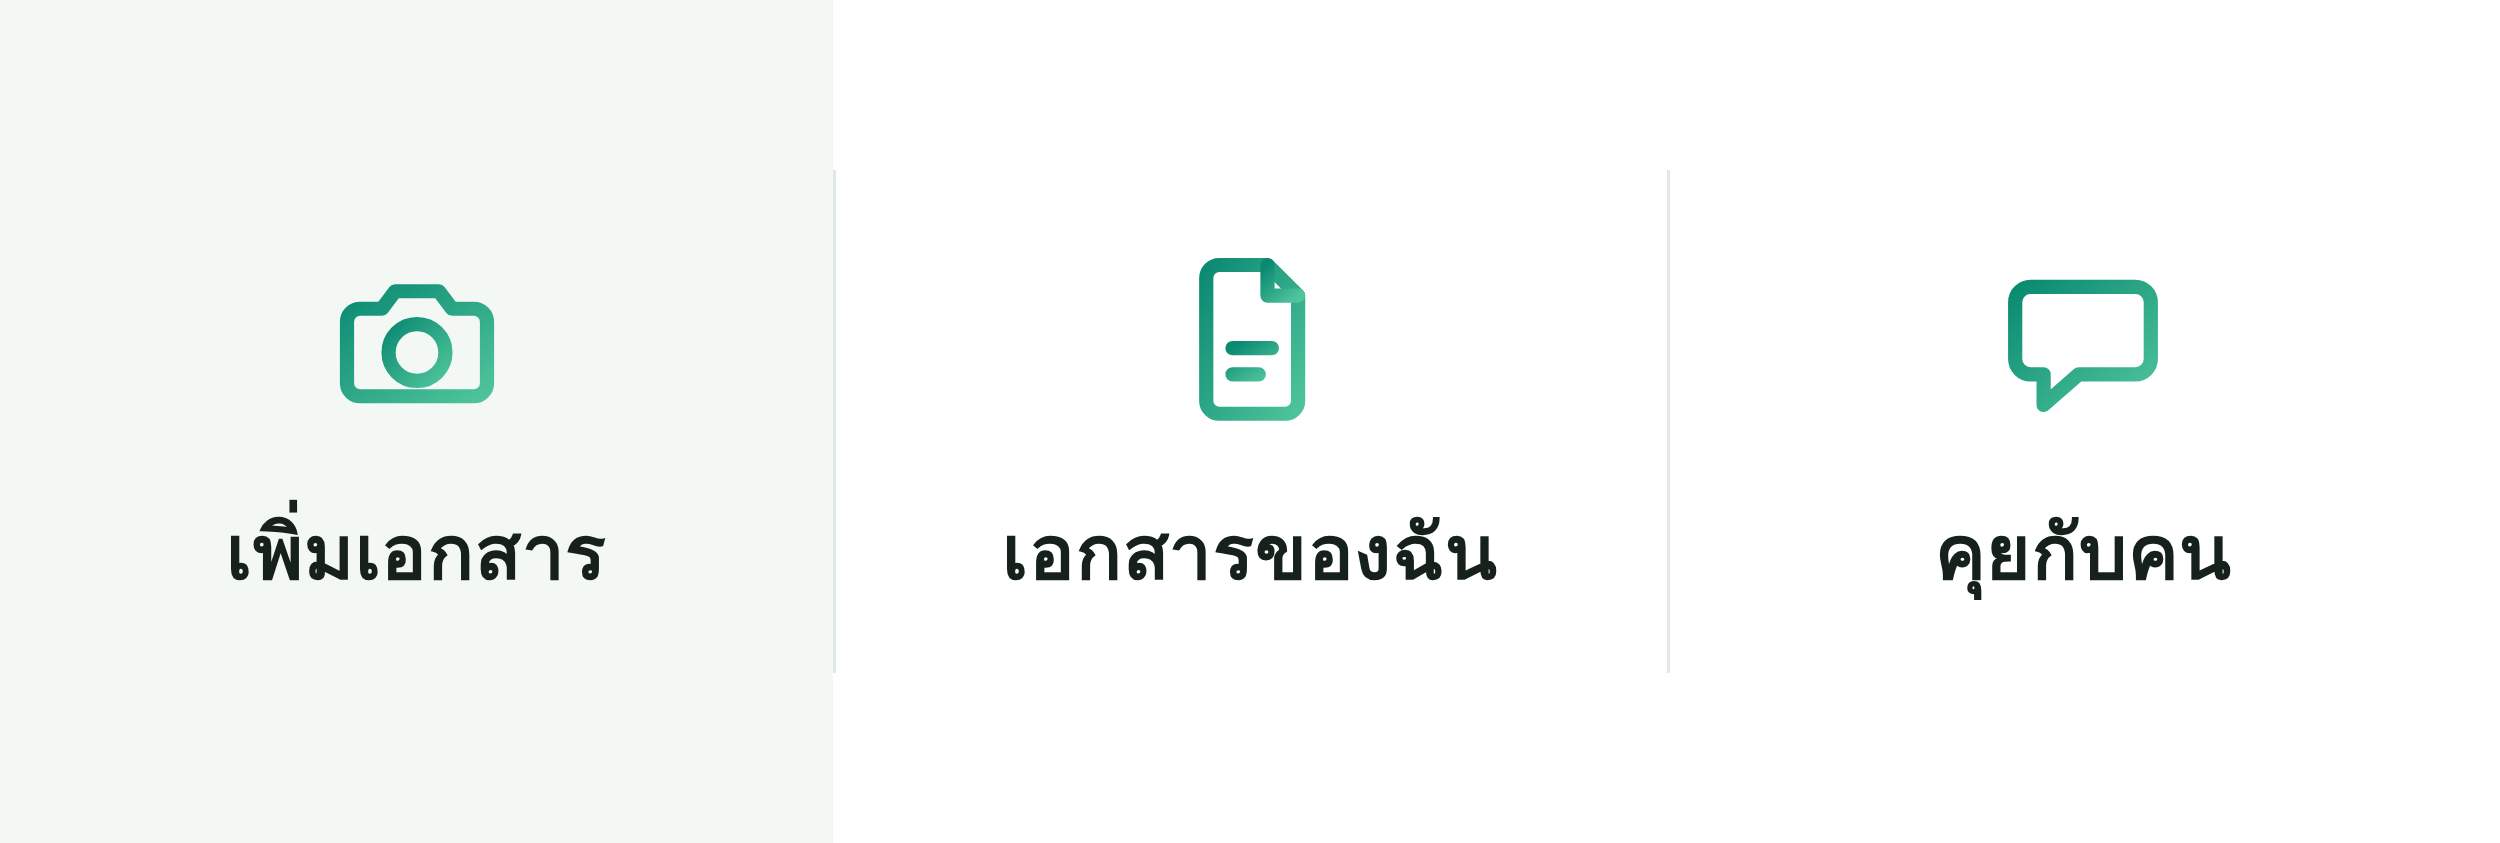
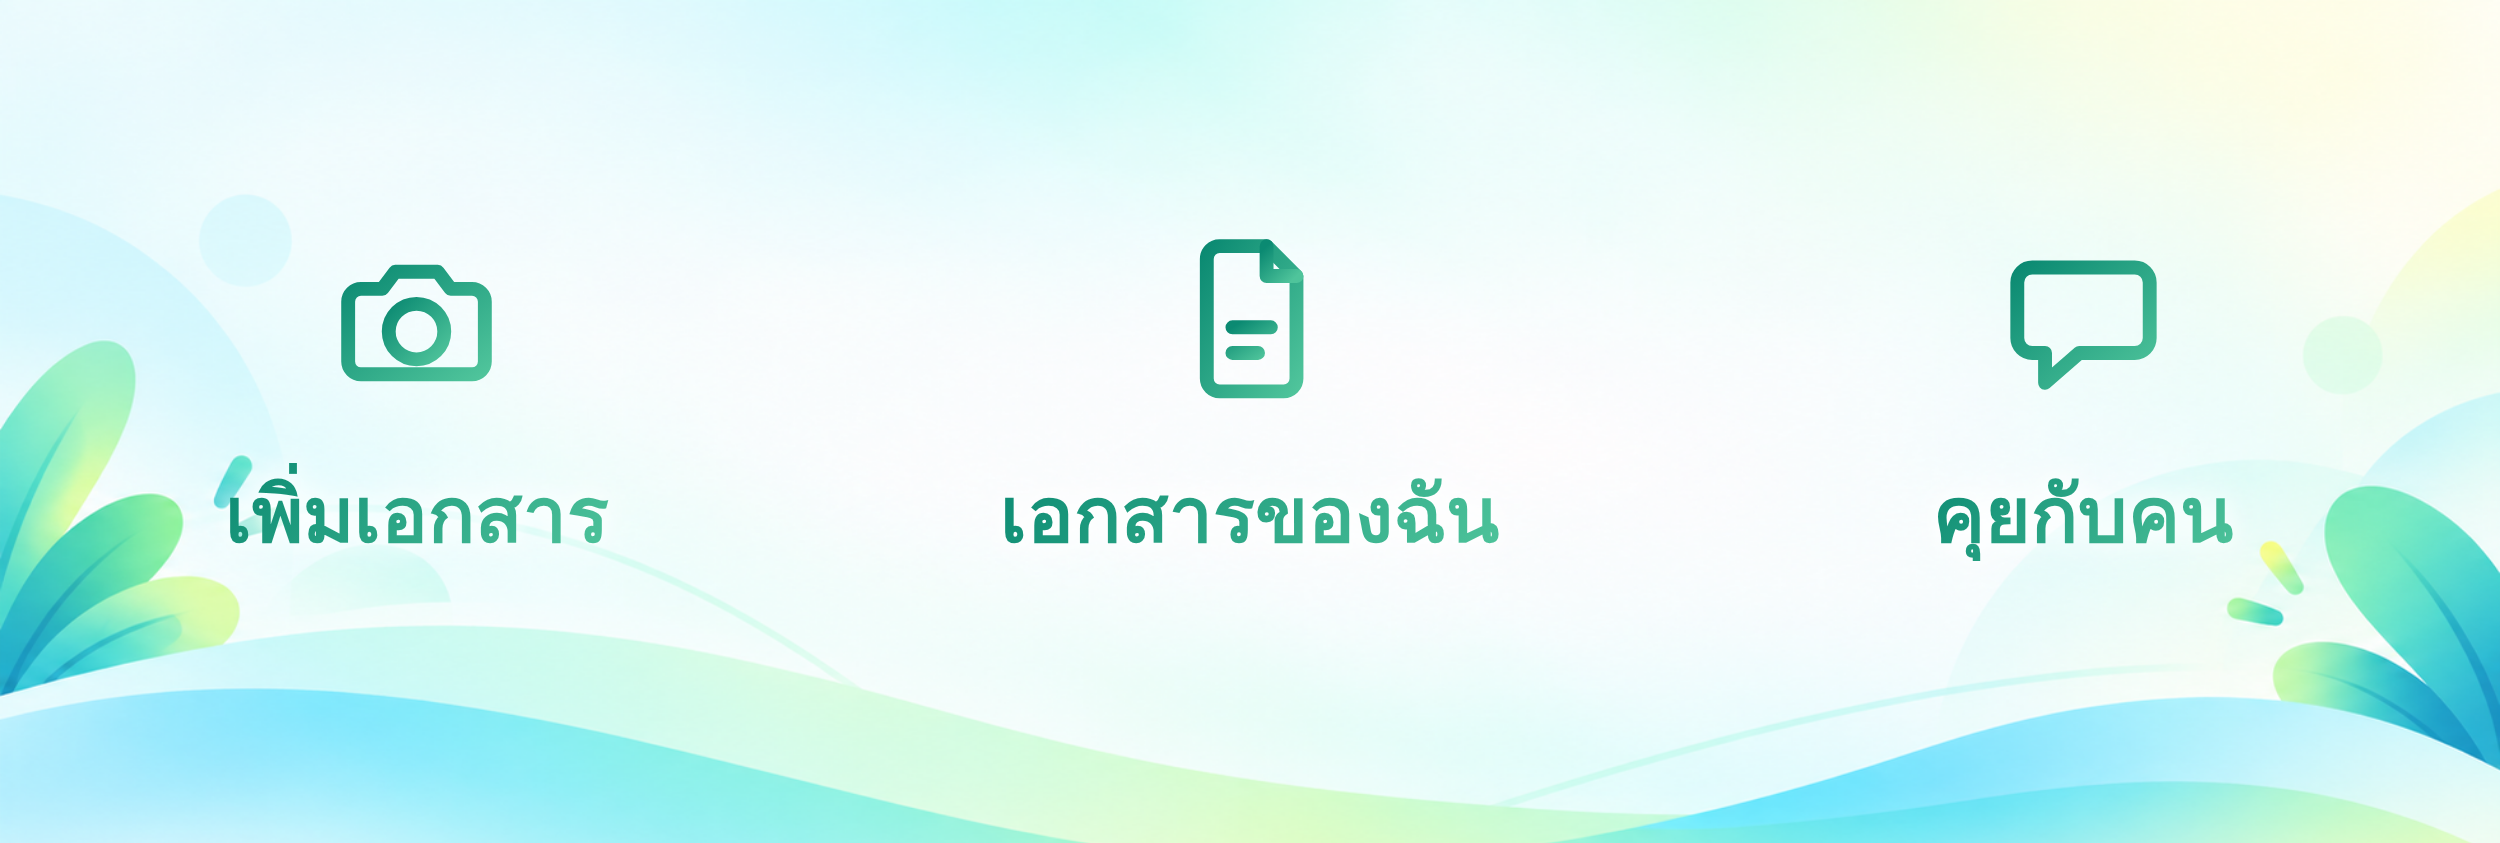
rich menu ใช้พื้นหลังของ Tum + ตัวอักษรฟอนต์ Mali ไล่สีเขียว
- พื้นหลัง richmenu_background.png (1962x801) ไม่ตรงสัดส่วน 2500x843
  ต้องตัดออก 178px และตัดจากขอบล่าง (จัดชิดบน)
  เพื่อดันคลื่นลงไปใกล้ขอบล่าง เหลือพื้นที่โล่งด้านบนให้ไอคอนกับตัวอักษร
  ถ้าตัดจากขอบบนแทน คลื่นจะลอยอยู่กลางภาพ แล้วครึ่งล่างจะว่างเปล่า

- ตัวอักษรใช้ Mali 700 — โค้งมนและหนา ตัวไล่สีชุดเดียวกับไอคอน
  เติมเงาขาวฟุ้งบาง ๆ กันตัวอักษรจมไปกับลายพื้นหลัง

- ดันเนื้อหาขึ้นจากกึ่งกลาง 70px เพราะส่วนล่างเป็นคลื่นสีเข้ม
  ตัวอักษรเขียวทับตรงนั้นจะอ่านยาก

ไฟล์ ~810KB — LINE จำกัดไว้ที่ 1MB จดไว้ใน README แล้ว

Claude-Session: https://claude.ai/code/session_01M7tvfzcRoyzy7X7Yh9MoMw

diff --git a/tools/brand/richmenu.html b/tools/brand/richmenu.html
@@ -1,63 +1,79 @@
 <!doctype html>
 <meta charset="utf-8">
 <style>
-  :root {
-    /* ไล่สีทแยงมุม เขียวอมฟ้าเข้มไปเขียวมิ้นต์อ่อน — ชุดเดียวกับไอคอนในแชท */
-    --teal: #0b8a72;
-    --green: #4fc49b;
-    --ink: #16211b;
-    --ink-2: #5d6b64;
-    --line: #e2e8e3;
-    --wash: #f3f8f4;
-  }
+  /* ไล่สีเดียวกับไอคอน — เขียวอมฟ้าเข้มไปเขียวมิ้นต์ ทแยงมุม องศาเดียวกันทั้งชุด */
+  :root { --teal: #0b8a72; --mint: #4fc49b; }
+
   * { margin: 0; padding: 0; box-sizing: border-box; }
   body {
     width: 2500px; height: 843px;
     display: grid; grid-template-columns: repeat(3, 1fr);
-    background: #fff;
-    font-family: 'Noto Sans Thai', sans-serif;
+    font-family: 'Mali', sans-serif;
     -webkit-font-smoothing: antialiased;
+
+    /*
+      พื้นหลังเป็นภาพของ Tum — สัดส่วนสูงกว่า 2500x843 อยู่เล็กน้อย
+      จึงต้องตัดออก 178px และตัดจากขอบล่าง (จัดชิดบน)
+      เพื่อดันคลื่นลงไปใกล้ขอบล่าง เหลือพื้นที่โล่งด้านบนให้ไอคอนกับตัวอักษร
+      ถ้าตัดจากขอบบนแทน คลื่นจะลอยอยู่กลางภาพ แล้วครึ่งล่างจะว่างเปล่า
+    */
+    background: url('richmenu_background.png') center top / cover no-repeat, #eaf7f4;
   }
+
   .cell {
     display: flex; flex-direction: column;
     align-items: center; justify-content: center;
-    gap: 52px;
-    position: relative;
+    gap: 46px;
+    /*
+      ดันขึ้นจากกึ่งกลางเล็กน้อย เพราะส่วนล่างของพื้นหลังเป็นคลื่นสีเข้ม
+      ตัวอักษรเขียวทับตรงนั้นจะอ่านยาก
+    */
+    padding-bottom: 70px;
   }
-  .cell + .cell::before {
-    content: ''; position: absolute; left: 0; top: 170px; bottom: 170px;
-    width: 3px; background: var(--line);
+
+  .ico { width: 205px; height: 205px; }
+
+  .label {
+    font-size: 78px; font-weight: 700; line-height: 1.25;
+    background: linear-gradient(135deg, var(--teal) 0%, var(--mint) 100%);
+    -webkit-background-clip: text; background-clip: text; color: transparent;
+    /* ขอบขาวบาง ๆ กันตัวอักษรจมไปกับลายพื้นหลัง */
+    filter: drop-shadow(0 0 10px rgba(255,255,255,.95)) drop-shadow(0 0 22px rgba(255,255,255,.8));
   }
-  /* ช่องแรกคือสิ่งที่อยากให้เขาทำที่สุด — พื้นอ่อน ๆ ดึงตาโดยไม่ต้องตะโกน */
-  .cell.lead { background: var(--wash); }
-  .ico { width: 210px; height: 210px; }
-  .label { font-size: 76px; font-weight: 600; color: var(--ink); letter-spacing: .01em; }
-  .sub { font-size: 50px; color: var(--ink-2); margin-top: -30px; }
 </style>
 
-<div class="cell lead">
+<div class="cell">
   <svg class="ico" viewBox="0 0 96 96" fill="none" stroke="url(#g1)" stroke-width="6.5"
-       stroke-linecap="round" stroke-linejoin="round"><defs><linearGradient id="g1" x1="0" y1="0" x2="1" y2="1"><stop offset="0" stop-color="#0b8a72"/><stop offset="1" stop-color="#4fc49b"/></linearGradient></defs>
+       stroke-linecap="round" stroke-linejoin="round">
     <path d="M22 36h10l6-8h20l6 8h10a6 6 0 0 1 6 6v28a6 6 0 0 1-6 6H22a6 6 0 0 1-6-6V42a6 6 0 0 1 6-6z"/>
     <circle cx="48" cy="56" r="13"/>
+    <defs><linearGradient id="g1" x1="0" y1="0" x2="1" y2="1">
+      <stop offset="0" stop-color="#0b8a72"/><stop offset="1" stop-color="#4fc49b"/>
+    </linearGradient></defs>
   </svg>
   <div class="label">เพิ่มเอกสาร</div>
 </div>
 
 <div class="cell">
   <svg class="ico" viewBox="0 0 96 96" fill="none" stroke="url(#g2)" stroke-width="6.5"
-       stroke-linecap="round" stroke-linejoin="round"><defs><linearGradient id="g2" x1="0" y1="0" x2="1" y2="1"><stop offset="0" stop-color="#0b8a72"/><stop offset="1" stop-color="#4fc49b"/></linearGradient></defs>
+       stroke-linecap="round" stroke-linejoin="round">
     <path d="M34 16h22l14 14v48a6 6 0 0 1-6 6H34a6 6 0 0 1-6-6V22a6 6 0 0 1 6-6z"/>
     <path d="M56 16v14h14"/>
     <path d="M40 54h18M40 66h12"/>
+    <defs><linearGradient id="g2" x1="0" y1="0" x2="1" y2="1">
+      <stop offset="0" stop-color="#0b8a72"/><stop offset="1" stop-color="#4fc49b"/>
+    </linearGradient></defs>
   </svg>
   <div class="label">เอกสารของฉัน</div>
 </div>
 
 <div class="cell">
   <svg class="ico" viewBox="0 0 96 96" fill="none" stroke="url(#g3)" stroke-width="6.5"
-       stroke-linecap="round" stroke-linejoin="round"><defs><linearGradient id="g3" x1="0" y1="0" x2="1" y2="1"><stop offset="0" stop-color="#0b8a72"/><stop offset="1" stop-color="#4fc49b"/></linearGradient></defs>
+       stroke-linecap="round" stroke-linejoin="round">
     <path d="M24 26h48a7 7 0 0 1 7 7v26a7 7 0 0 1-7 7H46L30 80V66h-6a7 7 0 0 1-7-7V33a7 7 0 0 1 7-7z"/>
+    <defs><linearGradient id="g3" x1="0" y1="0" x2="1" y2="1">
+      <stop offset="0" stop-color="#0b8a72"/><stop offset="1" stop-color="#4fc49b"/>
+    </linearGradient></defs>
   </svg>
   <div class="label">คุยกับคน</div>
 </div>

diff --git a/tools/brand/README.md b/tools/brand/README.md
@@ -6,7 +6,7 @@
 |---|---|---|
 | `Icon-LineOA.png` | รูปโปรไฟล์ LINE OA — **อันนี้คืออันจริง** | Tum |
 | `Mascot-main.png` · `Mascot-Act.png` | มาสคอต ยังไม่ได้เอาไปใช้ที่ไหน | Tum |
-| `richmenu_background.png` | พื้นหลัง rich menu ยังไม่ได้เอาไปใช้ | Tum |
+| `richmenu_background.png` | พื้นหลังของ rich menu | Tum |
 | `richmenu.png` | รูป rich menu ที่ `tools/richmenu.mjs` อัปโหลดจริง | สร้างจาก `richmenu.html` |
 
 `src/app/icon.png` และ `src/app/apple-icon.png` เป็นรูปเดียวกับ `Icon-LineOA.png`
@@ -18,6 +18,12 @@
 `richmenu.html` · `icon.html` · `icon-b.html` เรนเดอร์ด้วย `node render.cjs`
 (ต้องมี playwright) ส่วนไอคอนใน quick reply อยู่ที่ `public/icons`
 สร้างจาก `tools/icons.py`
+
+ตัวอักษรบน rich menu ใช้ฟอนต์ **Mali** (Google Fonts) น้ำหนัก 700
+เครื่องที่จะเรนเดอร์ใหม่ต้องลงฟอนต์นี้ก่อน ไม่งั้นจะตกไปใช้ฟอนต์ระบบแล้วหน้าตาเปลี่ยน
+
+รูป rich menu ต้องไม่เกิน 1MB ตามข้อกำหนดของ LINE
+ไฟล์ปัจจุบัน ~810KB — ถ้าแก้แล้วบวมเกิน ให้ลดจำนวนสีหรือบันทึกเป็น JPEG แทน
 
 `oa-icon.png` / `oa-icon-b.png` เป็นรูปโปรไฟล์ที่เคยทำไว้ก่อนจะมีของจริง
 เก็บไว้เผื่อเทียบ ไม่ได้ใช้แล้ว
